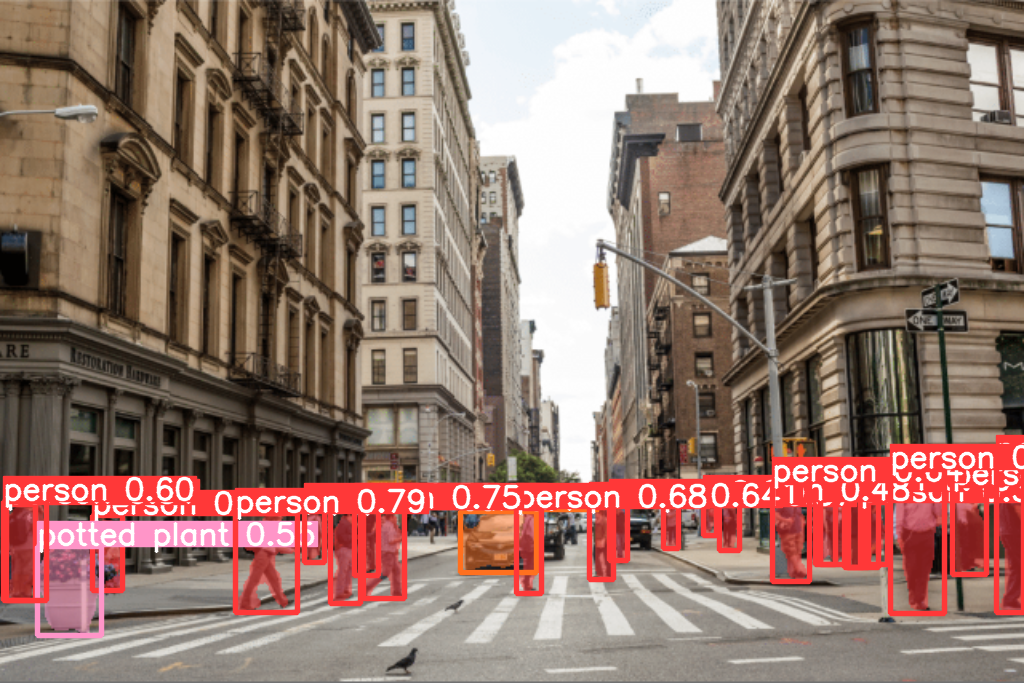
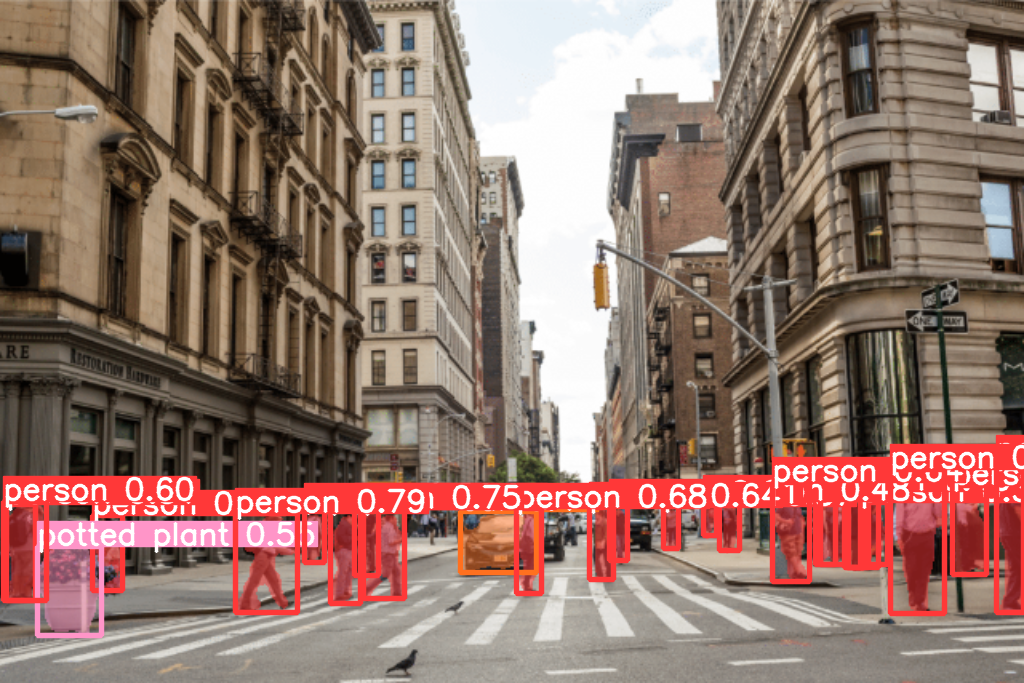
Add qtpy to support PyQt6 or PySide6

diff --git a/main.py b/main.py
@@ -12,13 +12,23 @@ project_root = os.path.dirname(os.path.dirname(script_path))
 sys.path.insert(0, project_root)
 sys.path.insert(0, os.getcwd())  # Add the current directory as well
 
-from PyQt5.QtWidgets import QMainWindow, QApplication, QWidget, QVBoxLayout, QPushButton, QLineEdit, QGroupBox, \
+from qtpy.QtWidgets import QMainWindow, QApplication, QWidget, QVBoxLayout, QPushButton, QLineEdit, QGroupBox, \
     QFormLayout, QComboBox, QCheckBox, QMessageBox, QLabel, QTableWidget, QSplitter, \
     QTableWidgetItem
-from PyQt5.QtCore import Qt, QCoreApplication
-from PyQt5.QtGui import QFont
+from qtpy.QtCore import Qt, QCoreApplication
+from qtpy.QtGui import QFont
 
-from PyQt5.QtCore import QThread, pyqtSignal
+from qtpy.QtCore import QThread, Signal
+
+# print(os.environ['QT_API'])
+
+# for testing pyside6
+# os.environ['QT_API'] = 'pyside6'
+
+# for testing pyqt6
+os.environ['QT_API'] = 'pyqt6'
+
+print(os.environ['QT_API'])
 
 QApplication.setAttribute(Qt.AA_EnableHighDpiScaling)
 QCoreApplication.setAttribute(Qt.AA_UseHighDpiPixmaps)  # HighDPI support
@@ -27,8 +37,8 @@ QApplication.setFont(QFont('Arial', 12))
 
 
 class Thread(QThread):
-    errorGenerated = pyqtSignal(str)
-    generateFinished = pyqtSignal(str, dict)
+    errorGenerated = Signal(str)
+    generateFinished = Signal(str, dict)
 
     def __init__(self, wrapper: YOLOWrapper, cur_task, path, plot_arg):
         super(Thread, self).__init__()
